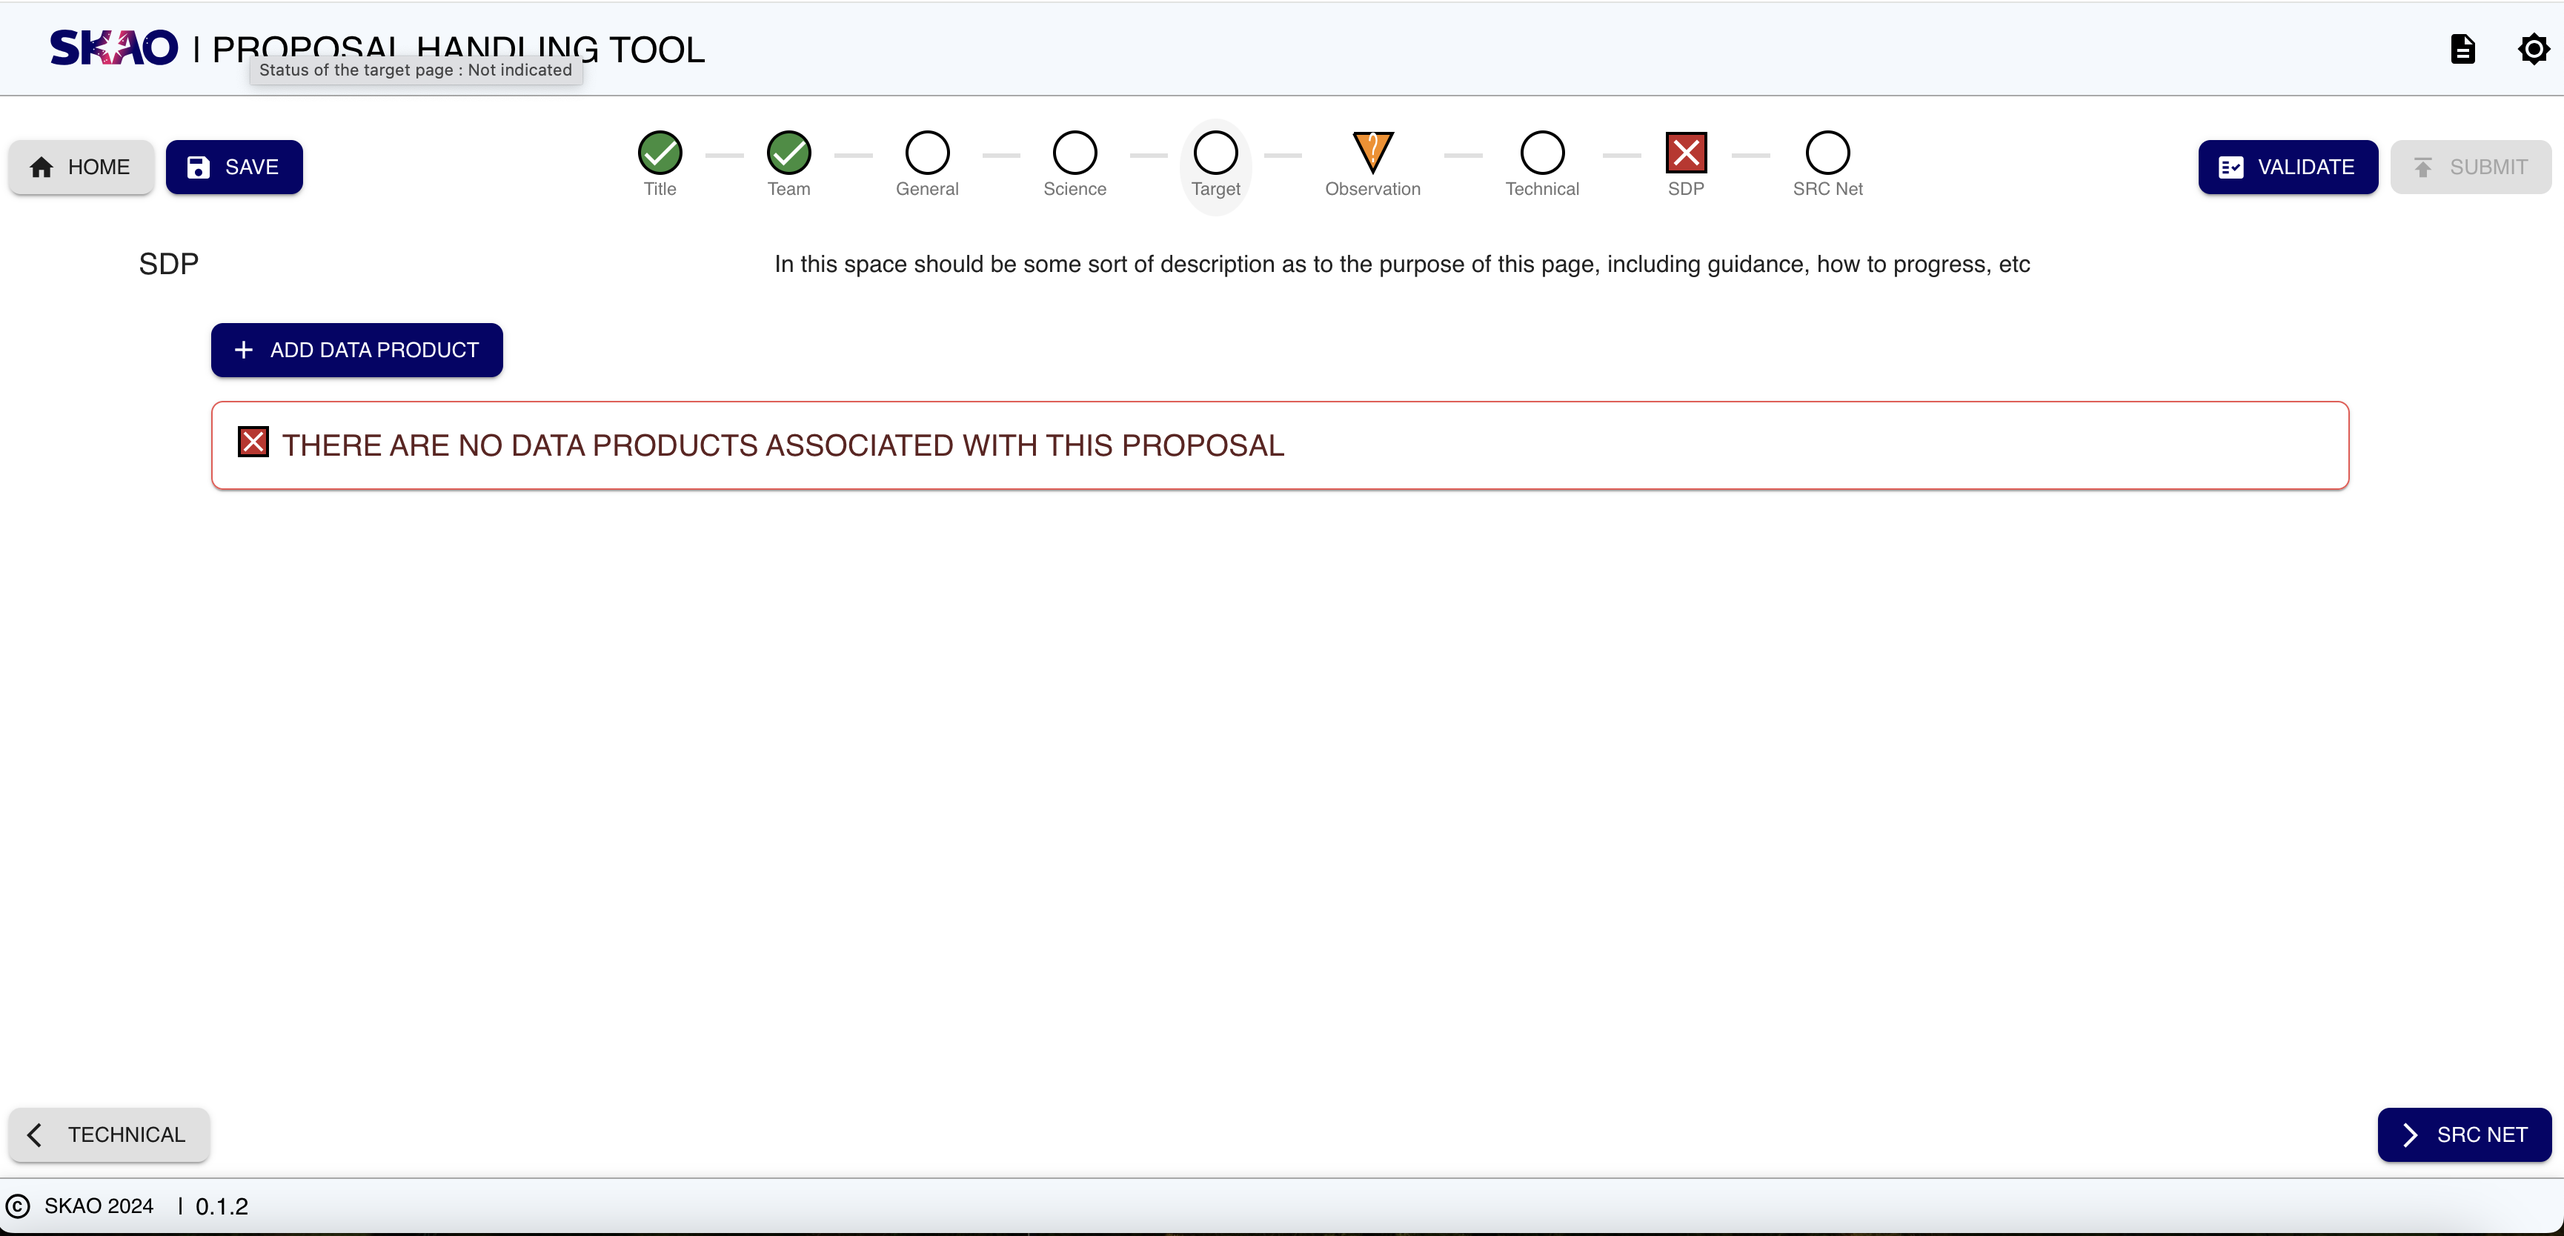
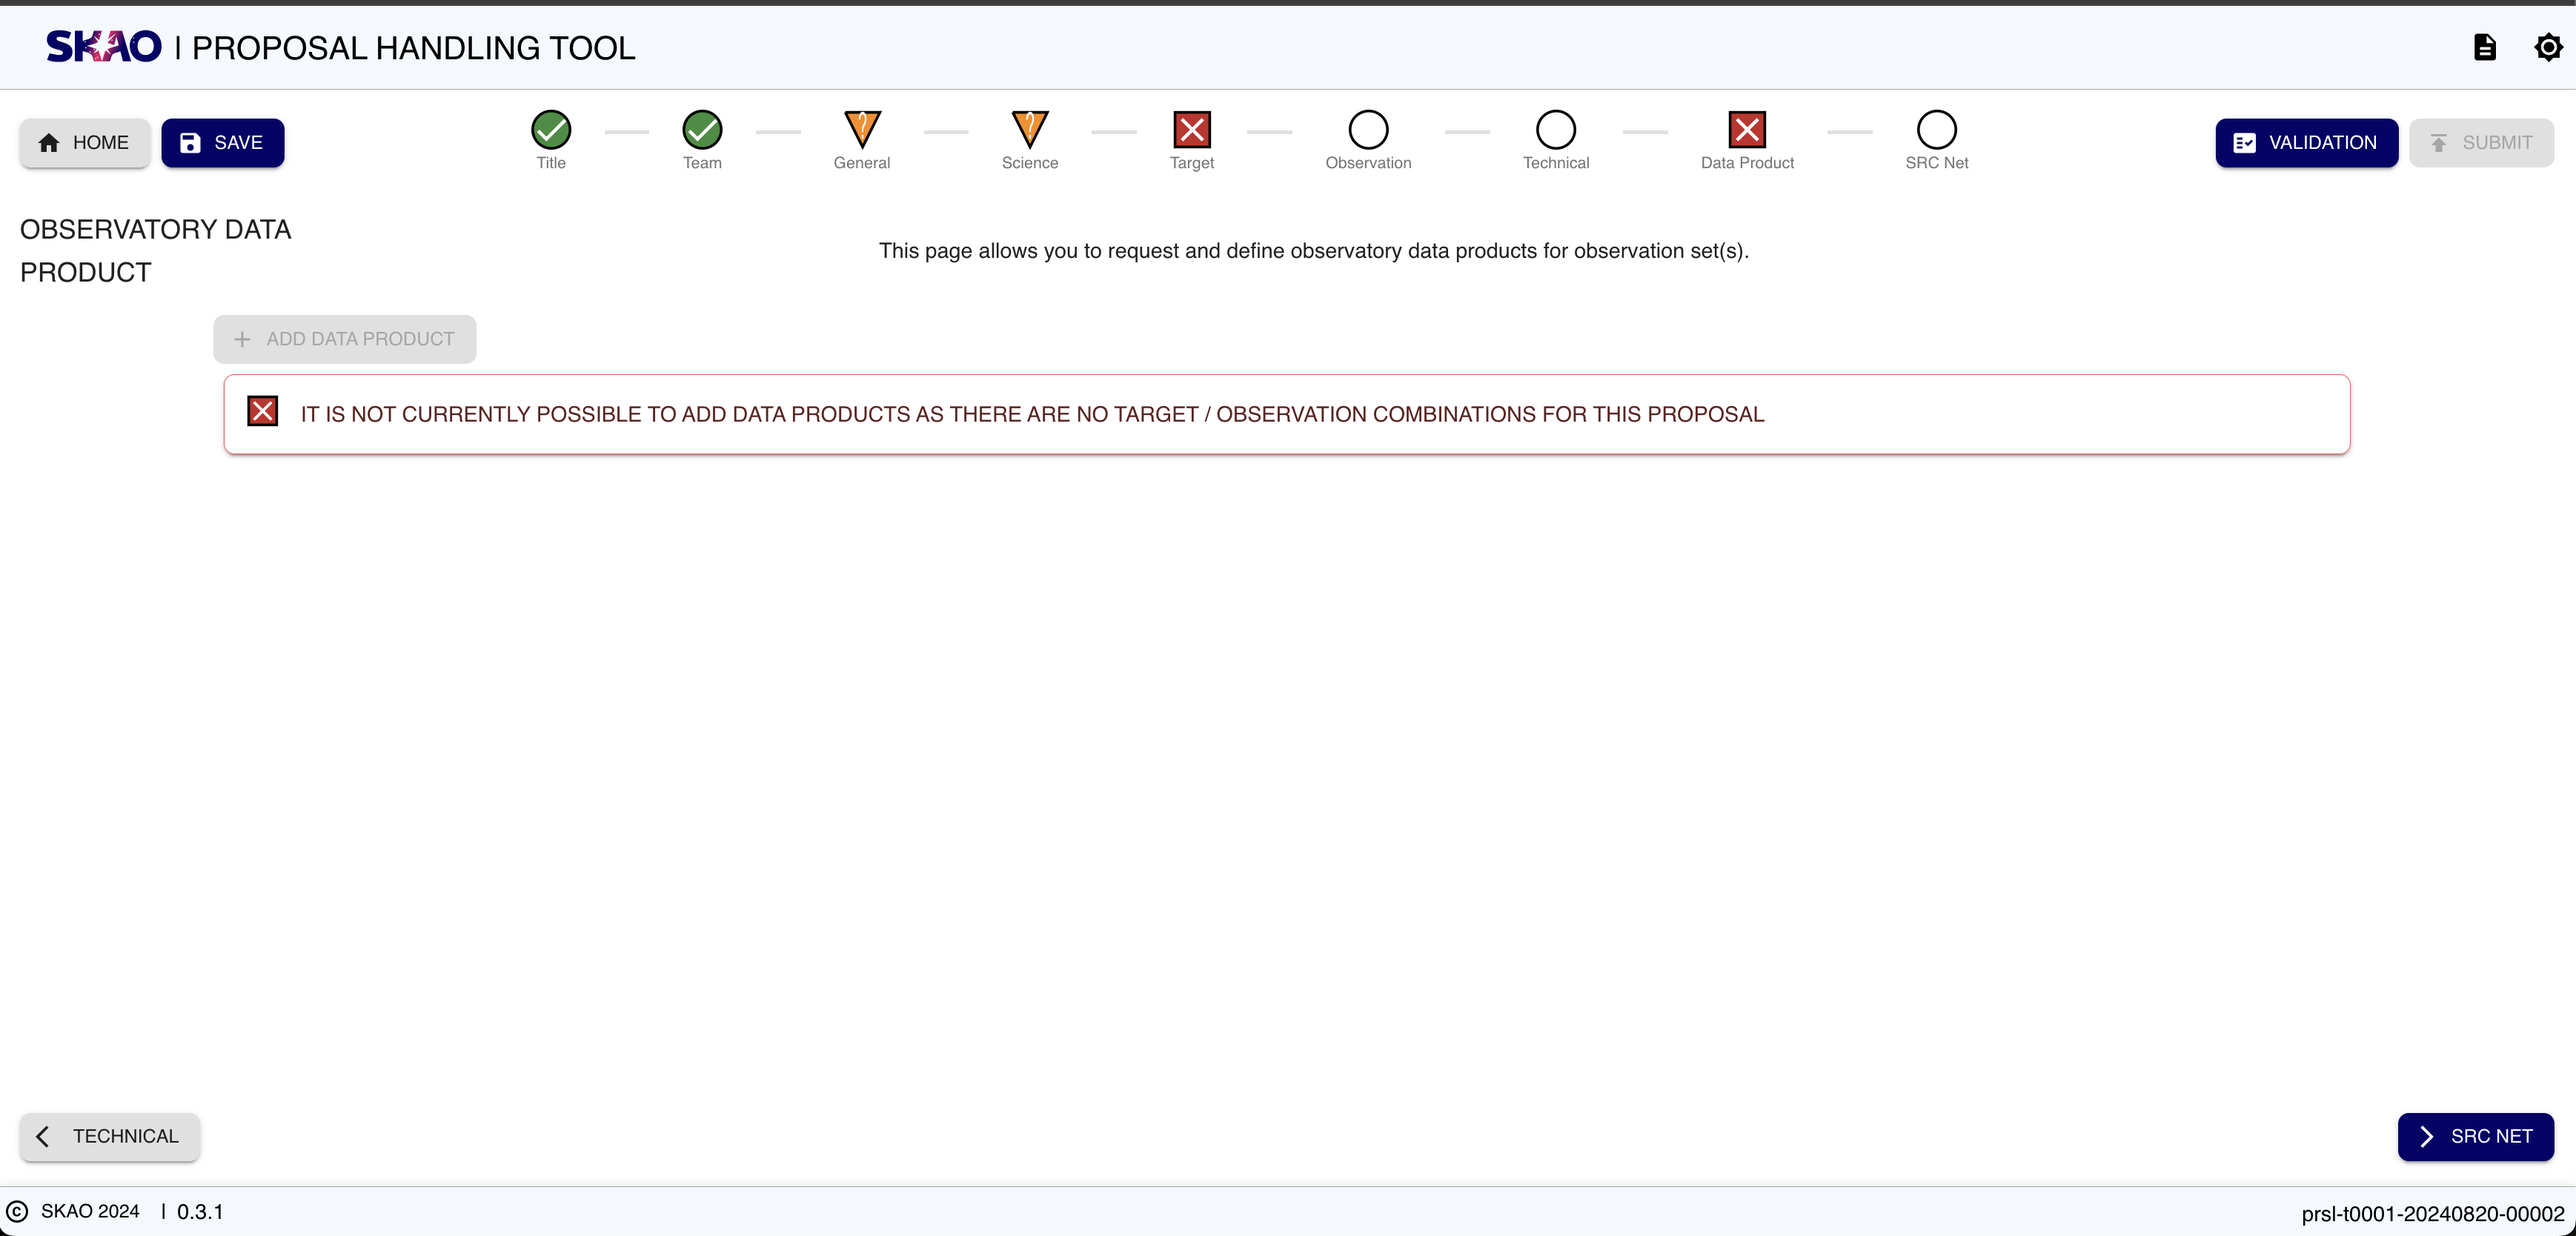
STAR-632: Updated user guide

diff --git a/docs/src/SDPDataPage.rst b/docs/src/SDPDataPage.rst
@@ -1,8 +1,10 @@
-SDP Data Page
-~~~~~~~~~~~~~
+Observatory Data Product Page
+==================================
 
-The SDP (Science Data Processor) page is linked with the observation page so observation sets can be specified for which a data product is requested. Here, you can request a single or multiple SDP data products for an observation set or all observation sets added to your proposal.
-The "add observation" will not be active until an observation set exists, has been linked to a target and has a valid sensitivity Calculation Result. :numref:`Figure %s <datapage>` shows the layout of the SDP data page in light mode when no data product has been added to observation set(s) but observation sets and targets have linked on the observation page.
+
+The observatory data product page is linked with the observation page so observation sets can be specified for which a data product is requested. 
+Here, you can request a single or multiple observatory data data products for an observation set or all observation sets added to your proposal.
+The "Add Data Product" will not be active until an observation set exists, has been linked to a target and has a valid sensitivity Calculation Result. :numref:`Figure %s <_datapageextra>` shows the layout of the observatory data product data page in light mode when no data product has been added to observation set(s).
 
 
 .. |icosdp| image:: /images/addsdp.png
@@ -10,32 +12,32 @@ The "add observation" will not be active until an observation set exists, has be
    :alt: Page filter
 
 
-.. _datapage:
+.. _datapageextra:
 
 .. figure:: /images/dataProductPage.png
    :width: 100%
-   :alt: SDP data page in screen in light mode 
+   :alt: Observatory data page in screen in light mode 
 
-   Figure : SDP data page in light mode.
+   Figure : Observatory Data Product page in light mode.
 
 Layout and Navigation
 =====================
 
-The are two parts to the SDP data page:
+The are two parts to the observatory data product page:
 
 1. **Landing page**
 
 
-To add SDP data products to an observation, click the  |icosdp| button. Once data products 
-have been added to your observation set(s), the SDP data landing page will 
-display a table as shown in :numref:`Figure %s <datapage1>`. This table displays the following:
+   To add observatory data product to an observation, click the  |icosdp| button. Once data products 
+   have been added to your observation set(s), the observatory data product landing page will 
+   display a table as shown in :numref:`Figure %s <datapage1>`. This table displays the following:
 
-  - *Observation set(s)*: Observation set selected for which the sdp data product(s) is added.
-  - *Observatory Data Product*:  A list of selected data products(s).
-  - *Image Size*: Image size requested.
-  - *Pixel Size*: Pixel size  calculated based on the beam size returned from the sensitivity calculator =  :math:`\frac{\theta_{minor}}{3}`.
-  - *Weighting*: The weighting of the selected observation set.
-  - *"Actions"* : "Delete" is the only option available at the moment.
+      - *Observation set(s)*: Observation set selected for which the observatory data product(s) is added.
+      - *Observatory Data Products*:  A list of added data products(s).
+      - *Image Size*: Image size requested.
+      - *Pixel Size*: Pixel size  calculated based on the beam size returned from the sensitivity calculator =  :math:`\frac{\theta_{minor}}{3}`.
+      - *Weighting*: The weighting of the selected observation set.
+      - *"Actions"* : "Delete" is the only option available at the moment.
 
 
 
@@ -43,14 +45,14 @@ display a table as shown in :numref:`Figure %s <datapage1>`. This table displays
 
 .. figure:: /images/sdpdata1.png
    :width: 90%
-   :alt: SDP page in screen in light mode 
+   :alt: Observatory Data Product page in screen in light mode 
 
-   SDP data page in light mode with data products added.
+   Observatory Data Product page in light mode with data products added.
 
 
   
 
-2. **Data Product Management**
+1. **Data Product Management**
 
 - Clicking on the |icosdp| button takes the user to a page where parameters of the 
   data product(s) can be specified as shown in :numref:`Figure %s <datapage2>`
@@ -59,9 +61,9 @@ display a table as shown in :numref:`Figure %s <datapage1>`. This table displays
 
 .. figure:: /images/sdpdata2.png
    :width: 90%
-   :alt: SDP data management page screen in light mode 
+   :alt: Observatory Data Product management page screen in light mode 
 
-   SDP data management page in light mode.
+   Observatory Data Product  management page in light mode.
 
 
 Key Information and Actions
@@ -75,7 +77,7 @@ Key Information and Actions
 Next Steps
 ==========
 
-After successfully adding SDP data products, you can move to the "SRC Net" page or any other page.
+After successfully adding Observatory Data Products, you can move to the "SrcNet" page or any other page.
 
 
 

diff --git a/docs/src/ObservationPage.rst b/docs/src/ObservationPage.rst
@@ -27,23 +27,22 @@ and after filling out the form and clicking "Add", the page will look like :numr
    :align: center
    :alt: screen in light mode 
 
-   Observation page with when observation set(s) added in light mode.
+   Observation page with observation set(s) and target(s) added in light mode.
 
 
 Layout and Navigation
 =====================
 
-The Observation Page consists of two distinct sections see :numref:`Figure %s <obspage1>`:
+The Observation Page consists of two distinct sections - see :numref:`Figure %s <obspage1>`:
 
 
 1. Observation set table which displays the following details :
   
    - **observation Id** : unique id for each observation set.
    - **observation group id** : displays the group Id if a given observation belongs to a group. This is needed when observations need to happen in parallel or in a group.
-   - **array** : Array of the observation set i.e if MID or LOW.
    - **sub-array** : This displays the sub-array of the observation set.
    - **type of observation** : If continuum or zoom.
-   - **Sensitivity Calculation status** : Indicates the overall status for the observation. Click to open a modal with individual results. See :numref:`Figure %s <senscal>`. 
+   - **Sensitivity Calculation status** : Indicates the overall status for the observation. Click to open a modal with individual results - see :numref:`Figure %s <senscal>`. 
    - **actions** : Icons providing the ability to edit or delete ( after confirmation ) the selected observation.
 
 2. Target List: 
@@ -53,6 +52,16 @@ The Observation Page consists of two distinct sections see :numref:`Figure %s <o
    - The *total sensitivity* based on the sensitivity calculator result.
    - The *beam size* based on the sensitivity calculator result.
 
+
+
+.. _senscal:
+
+.. figure:: /images/obssenscal.png
+   :width: 90%
+   :align: center
+   :alt: screen in light mode 
+
+   Sensitivity calculator result modal display.
 
 .. tip:: 
 
@@ -76,24 +85,23 @@ When the |icoobs|  button is clicked, the  "Add Observation" page as shown in :n
 
    The add observation page.
 
-Edit an observation
+
+
+Actions
 +++++++++++++++++++
 
-Available via the appropriate icon in the list of observations.  Once clicked, the selected observation is displayed in a
-form identical the the Add Observation page, with the titling of the form and buttons changed to reflect the different functionality
-upon completion.   
 
-Upon completion of this action, any affected Sensitivity Calculation results will be replaced, so it is encouraged to check that the
-results are still appropriate.   Also affected may be any Data Products, so these should also be checked to ensure suitability
+- **Edit an observation**: Available via the appropriate icon in the list of observations.  Once clicked, the selected observation is displayed in a
+  form identical to the 'Add Observation page', with the titling of the form and buttons changed to reflect the different functionality
+  upon completion.   
+  
+  Upon completion of this action, any affected Sensitivity Calculation results will be replaced, so it is encouraged to check that the
+  results are still appropriate.   Also affected may be any Data Products, so these should also be checked to ensure suitability. While on this page, you can cancel the edit proess if you choose to.
 
-This also includes the ability to cancel the operation should the editing needs to be aborted.
 
-Remove an observation
-+++++++++++++++++++++
-
-Available via the appropriate icon in the list of observations.  Once clicked, a summary of the selected observation is displayed in a
-modal and a confirmation of the action is required. Upon confirmation, the selected observation, together to all the links to targets
-and data products is also removed.   If this action is cancelled, then the modal simply closes.
+- **Delete an observation**: Available via the appropriate icon in the list of observations.  Once clicked, a summary of the selected observation is displayed in a 
+  modal and a confirmation of the action is required. Upon confirmation, the selected observation, together with all the links to targets 
+  and data products is also removed.   If this action is cancelled, then the modal simply closes.
 
 .. note:: 
 
@@ -106,22 +114,12 @@ and data products is also removed.   If this action is cancelled, then the modal
 
 
 
-.. _senscal:
-
-.. figure:: /images/obssenscal.png
-   :width: 90%
-   :align: center
-   :alt: screen in light mode 
-
-   Sensitivity calculator result modal display.
-
-
 
 
 Key Information and Actions
 ===========================
 
-- The Observation Page allows you to:
+The Observation Page allows you to:
 
   - Create new observation entries.
   - Link observations to specific targets.

diff --git a/docs/src/TargetPage.rst b/docs/src/TargetPage.rst
@@ -41,20 +41,20 @@ Key Information and Actions
 ===========================
 
 - Add target:
-  Use the entry form on the right of the page, under the tab **Add Target**
+  Use the entry form on the right of the page, under the tab ''**Add Target**''
 
 - Edit target:
-  When selected a modal is displayed with a form containing details of the selected target.
-  These fields can be adjusted and will update the target upon confirmation
+  When selected, a modal is displayed with a form containing details of the selected target.
+  These fields can be adjusted and will update the target upon confirmation.
 
-- Delete targets.
-  When selected a modal is displayed showing details of the selected target.
+- Delete targets:
+  When selected, a modal is displayed showing details of the selected target.
   There is the option to confirm or cancel.
   If confirmation is selected, then the target is removed, as well as any links to observations
 
-- Resolve Targets.
-  Resolve targets by name using the |icoresolve| button which allows you to query SIMBAD and NED.
-  This is available as part of the functionality of **Add Target**
+- Resolve Targets:
+  Resolve targets by name using the |icoresolve| button which allows you to query SIMBAD or NED.
+  This is available as part of the functionality of ''**Add Target**''
 
 
 Next Steps

diff --git a/docs/src/SrcNetPage.rst b/docs/src/SrcNetPage.rst
@@ -1,4 +1,4 @@
-SRC Net Page
+SRCNet Page
 ============
 
 THIS PAGE IS UNDER DEVELOPMENT AND WILL BE UPDATED SOON
